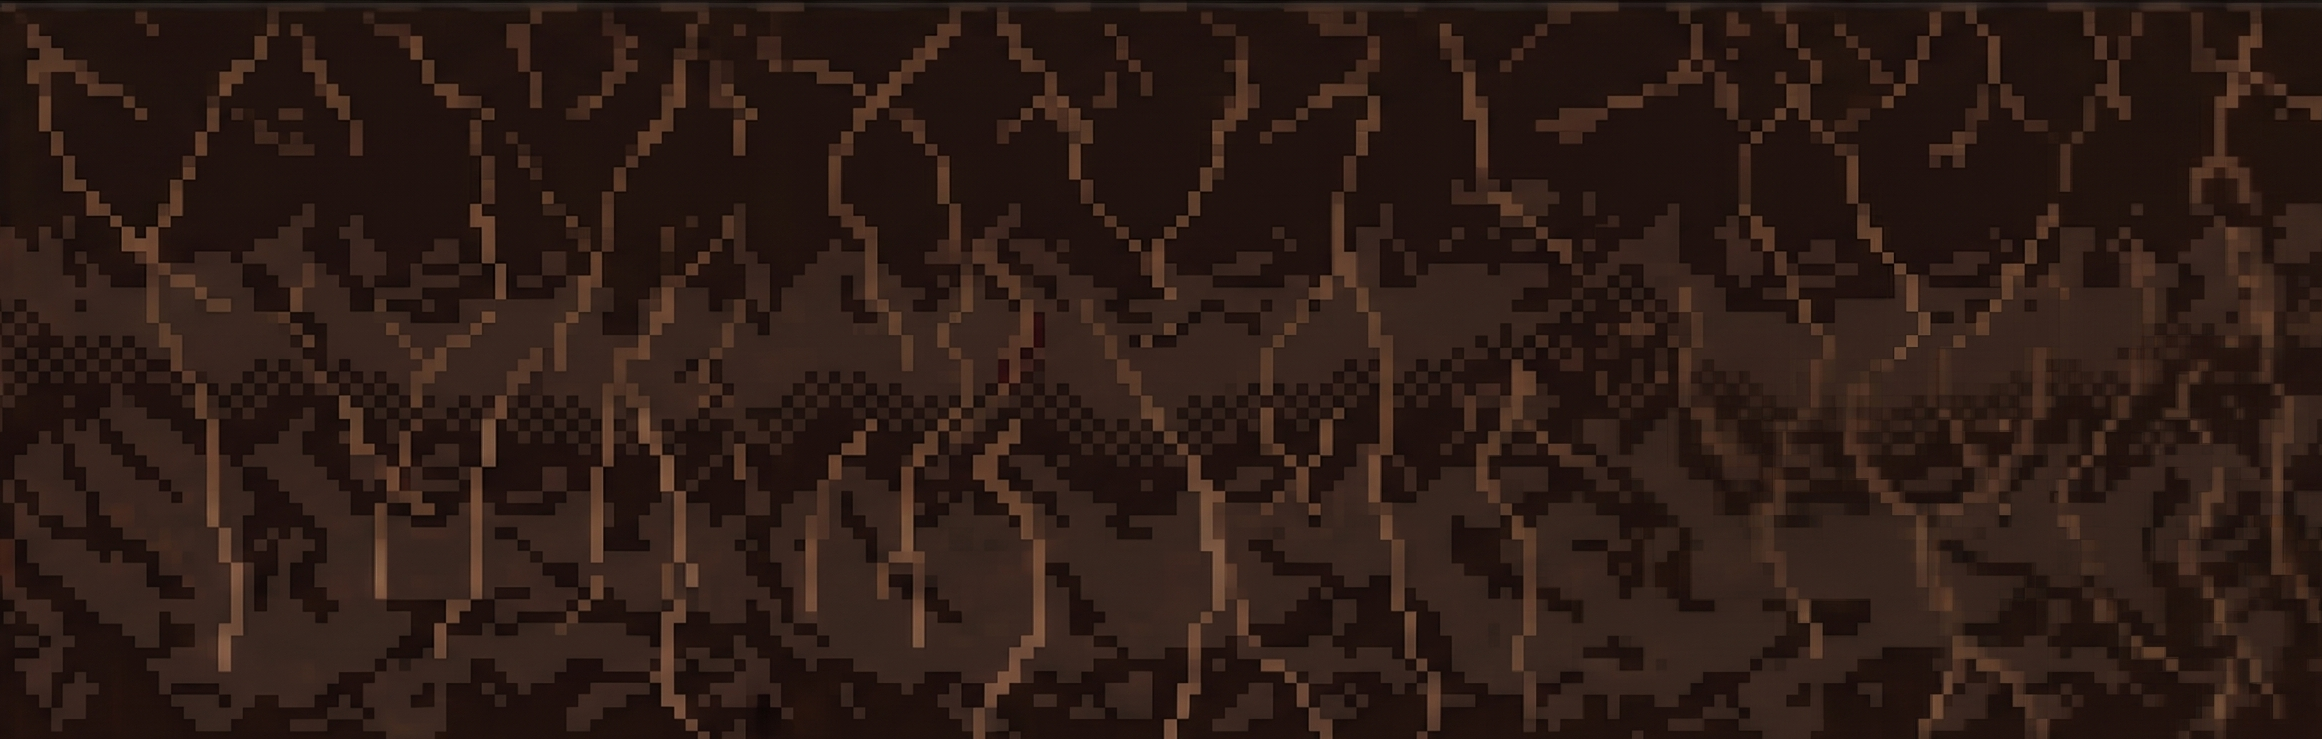
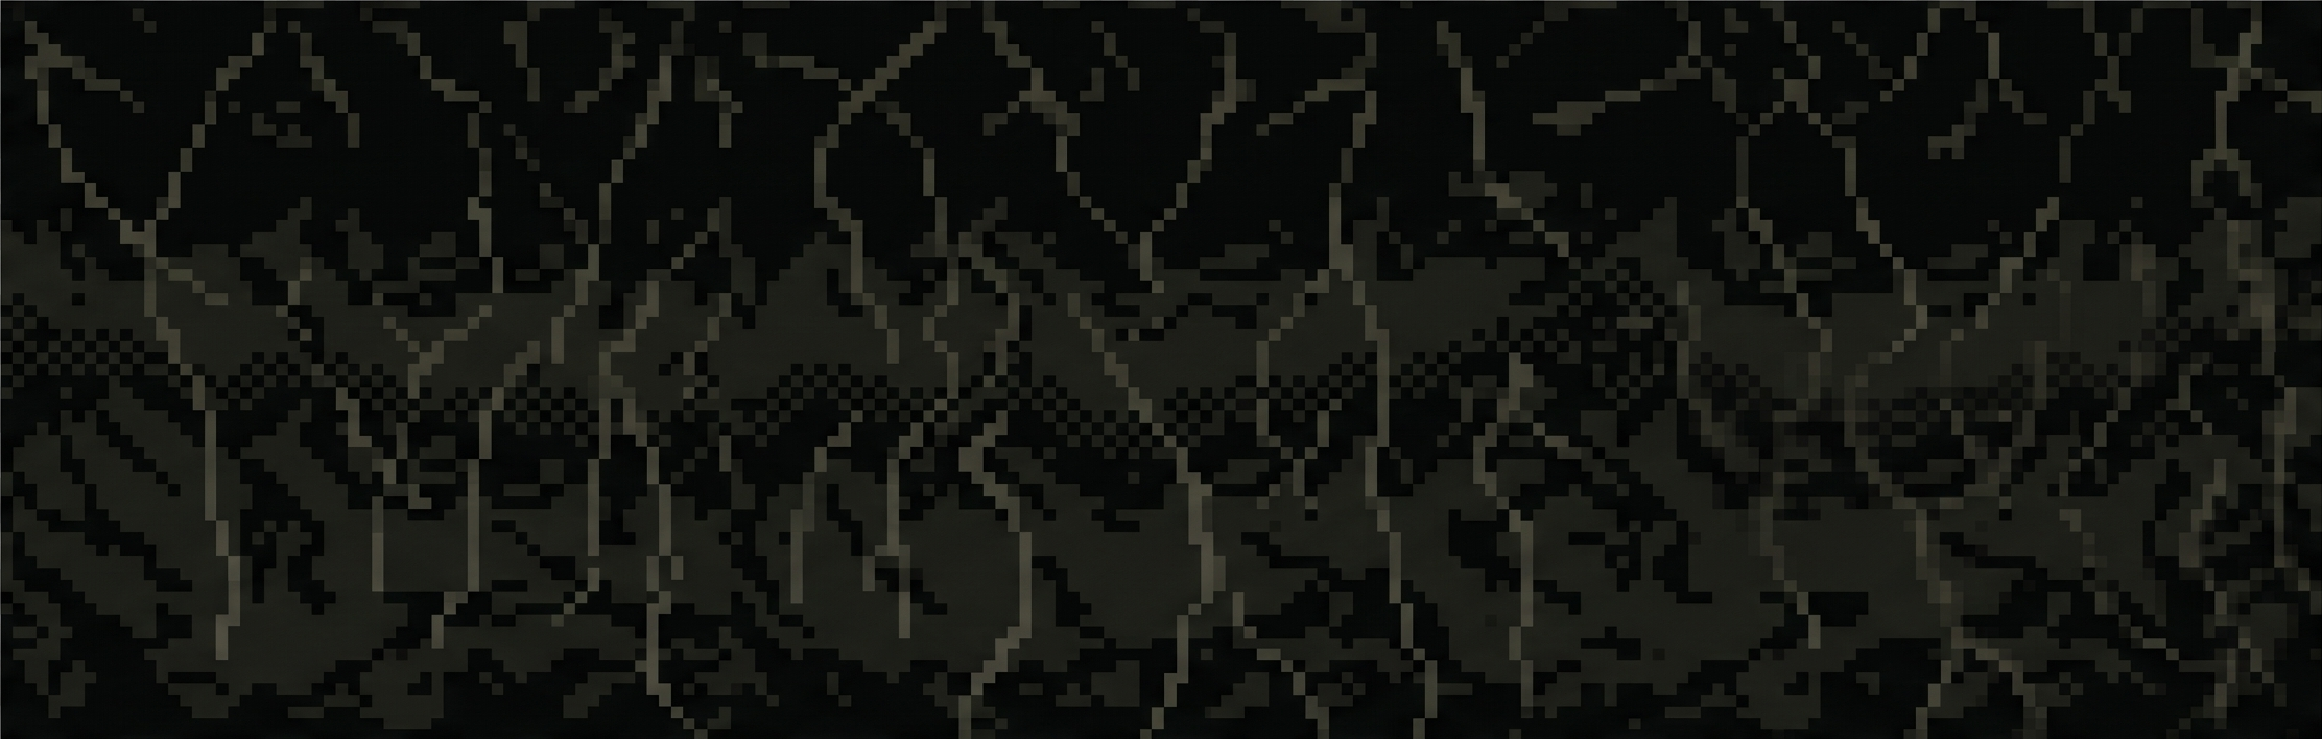
feat: swamp assets e decoração da fase inicial

diff --git a/src/scenes/swamp/rooms/SpawnSwampRoom.ts b/src/scenes/swamp/rooms/SpawnSwampRoom.ts
@@ -30,17 +30,104 @@ export class SpawnSwampRoom extends Phaser.Scene {
       .setDepth(Depth.FAR_BACKGROUND)
       .setAlpha(0.6);
 
-    const { group: chunk1 } = createGroundChunk(
+    const { group: chunk7 } = createGroundChunk(
       this,
+      7,
       4,
-      10,
-      [0, 1, 2, 3],
+      [0, 1, 2],
       'swamp-ground',
       'swamp-ground-dirt',
     );
 
-    const player = PlayerObject.create(this, 100, groundTop - 60);
-    this.physics.add.collider(player, [groundGroup, chunk1]);
+    const { group: chunk9 } = createGroundChunk(
+      this,
+      9,
+      7,
+      undefined,
+      'swamp-ground',
+      'swamp-ground-dirt',
+    );
+
+    const { group: chunk14 } = createGroundChunk(
+      this,
+      14,
+      4,
+      undefined,
+      'swamp-ground',
+      'swamp-ground-dirt',
+    );
+
+    const { group: chunk15 } = createGroundChunk(
+      this,
+      15,
+      4,
+      undefined,
+      'swamp-ground',
+      'swamp-ground-dirt',
+    );
+
+    const { group: chunk16 } = createGroundChunk(
+      this,
+      16,
+      4,
+      undefined,
+      'swamp-ground',
+      'swamp-ground-dirt',
+    );
+
+    const { group: chunk17 } = createGroundChunk(
+      this,
+      17,
+      8,
+      undefined,
+      'swamp-ground',
+      'swamp-ground-dirt',
+    );
+
+    const { group: chunk18 } = createGroundChunk(
+      this,
+      18,
+      8,
+      undefined,
+      'swamp-ground',
+      'swamp-ground-dirt',
+    );
+
+    this.add
+      .image(2050, 405, 'swamp-tree-large')
+      .setOrigin(0.5, 1)
+      .setScale(0.75)
+      .setDepth(Depth.BACKGROUND_2);
+
+    this.add
+      .image(450, 615, 'swamp-tree-twisted')
+      .setOrigin(0.5, 1)
+      .setScale(0.65)
+      .setDepth(Depth.BACKGROUND_1);
+
+    this.add
+      .image(120, 712, 'swamp-stone-rune')
+      .setOrigin(0.5, 1)
+      .setScale(1.1)
+      .setDepth(Depth.MAIN);
+
+    const stoneRuneGroup = this.physics.add.staticGroup();
+    const stoneBody = this.add.rectangle(120, 712, 235, 450, 0, 0);
+    stoneBody.setOrigin(0.5, 1);
+    stoneRuneGroup.add(stoneBody);
+
+    const player = PlayerObject.create(this, 300, groundTop - 60);
+    this.physics.add.collider(player, [
+      groundGroup,
+      stoneRuneGroup,
+      chunk9,
+      chunk14,
+      chunk15,
+      chunk16,
+      chunk17,
+      chunk18,
+      chunk7,
+    ]);
     PlayerCamera.setup(this, player, mapWidth);
     this.playerService = container.resolve<PlayerService>('playerService');
     this.playerService.init(player, this);

diff --git a/src/scenes/swamp/SwampLoaderScene.ts b/src/scenes/swamp/SwampLoaderScene.ts
@@ -2,6 +2,9 @@ import playerImg from '@assets/player/images/player.png';
 import swampGroundRoots from '@assets/swamp/images/swamp-ground-roots.png';
 import swampBackground from '@assets/swamp/images/swamp-background.png';
 import swampGroundDirt from '@assets/swamp/images/swamp-ground-dirt.png';
+import swampTreeTwisted from '@assets/swamp/images/swamp-tree-twisted.png';
+import swampTreeLarge from '@assets/swamp/images/swamp-tree-large.png';
+import swampStoneRune from '@assets/swamp/images/swamp-stone-rune.png';
 import { loadPlayerAnimations } from '@objects/player/PlayerLoader';
 
 export class SwampLoaderScene extends Phaser.Scene {
@@ -17,6 +20,9 @@ export class SwampLoaderScene extends Phaser.Scene {
     this.load.image('swamp-ground', swampGroundRoots);
     this.load.image('swamp-background', swampBackground);
     this.load.image('swamp-ground-dirt', swampGroundDirt);
+    this.load.image('swamp-tree-twisted', swampTreeTwisted);
+    this.load.image('swamp-tree-large', swampTreeLarge);
+    this.load.image('swamp-stone-rune', swampStoneRune);
   }
 
   create(): void {

diff --git a/src/index.html b/src/index.html
@@ -24,6 +24,10 @@
       width: 100vw;
       height: 100vh;
     }
+
+    canvas {
+      background-color: #000;
+    }
   </style>
 </head>
 <body>
